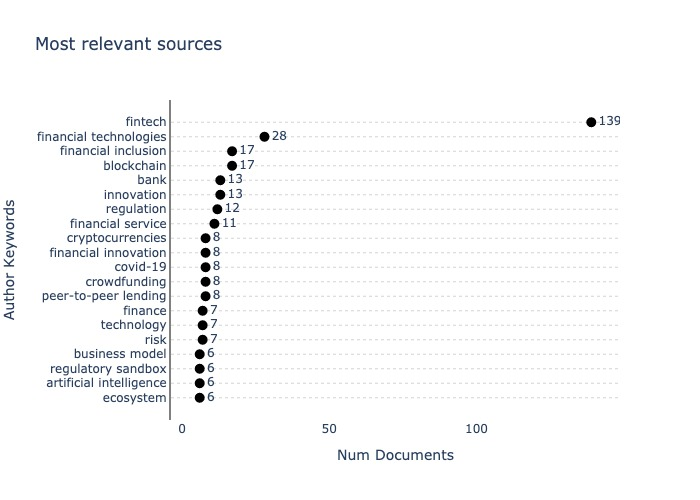
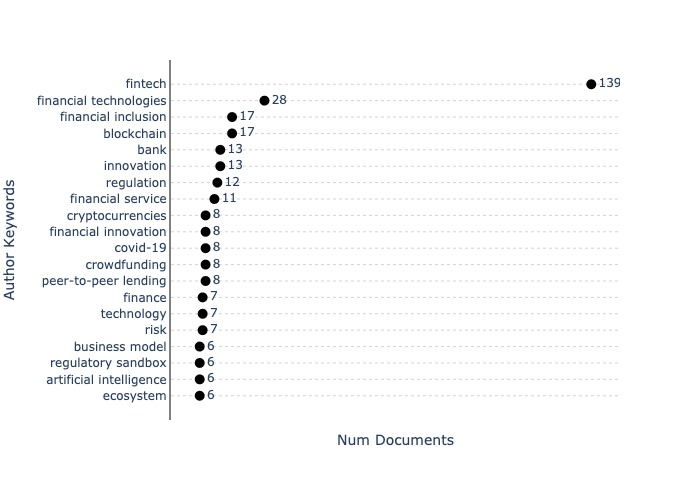
update

diff --git a/techminer2/gantt_chart.py b/techminer2/gantt_chart.py
@@ -1,5 +1,5 @@
 """
-Gantt Chart
+Gantt Chart (*)
 ===============================================================================
 
 >>> from techminer2 import *
@@ -9,71 +9,115 @@ Gantt Chart
 ...     column='author_keywords',
 ...     top_n=20, 
 ...     directory=directory,
-... ).savefig(file_name)
+... ).write_image(file_name)
 
 .. image:: images/gantt_chart.png
     :width: 700px
     :align: center
 
->>> gantt_chart(
-...     column='author_keywords',
-...     top_n=20, 
-...     directory=directory,
-...     plot=False,
-... ).head()
-pub_year                2016  2017  2018  2019  2020  2021
-author_keywords                                           
-fintech                    4     6    16    16    38    59
-financial technologies     1     0     6     4     5    12
-financial inclusion        0     2     0     2     3    10
-blockchain                 0     2     3     4     2     6
-innovation                 2     1     3     3     3     1
-
 
 """
+import plotly.express as px
+from pyparsing import col
 
-
-from ._gantt_chart import _gantt_chart
-from .annual_occurrence_matrix import annual_occurrence_matrix
-from .topic_view import topic_view
+from ._read_records import read_filtered_records
 
 
 def gantt_chart(
-    column,
-    metric="num_documents",
-    top_n=None,
-    min_occ=1,
-    max_occ=None,
-    sort_values=None,
-    sort_index=None,
+    column="author_keywords",
     directory="./",
-    #
-    color="tab:blue",
-    figsize=(6, 6),
-    plot=True,
+    top_n=10,
 ):
-    indicators = topic_view(
-        column=column,
-        metric=metric,
-        top_n=top_n,
-        min_occ=min_occ,
-        max_occ=max_occ,
-        sort_values=sort_values,
-        sort_index=sort_index,
-        directory=directory,
+
+    records = read_filtered_records(directory)
+    records = records[["pub_year", column]]
+    records = records.dropna(subset=[column])
+    records[column] = records[column].str.split(";")
+    records = records.explode(column)
+    records[column] = records[column].str.strip()
+    records = records.groupby(column).agg({"pub_year": [min, max]})
+    records.columns = records.columns.droplevel()
+    records = records.rename(columns={"min": "start", "max": "finish"})
+    records["data"] = records.index
+
+    records["start"] = records["start"].astype(str) + "-01-01"
+    records["finish"] = records["finish"].astype(str) + "-12-31"
+
+    index = read_filtered_records(directory)
+    index = index[column]
+    index = index.dropna()
+    index = index.str.split(";")
+    index = index.explode()
+    index = index.str.strip()
+    index = index.value_counts()
+    index = index.sort_values(ascending=False)
+    index = index.head(top_n)
+
+    records = records.loc[index.index, :]
+
+    # print(records)
+
+    fig = px.timeline(
+        records,
+        x_start="start",
+        x_end="finish",
+        y="data",
+    )
+    fig.update_yaxes(autorange="reversed")
+    fig.update_layout(paper_bgcolor="white", plot_bgcolor="white")
+    fig.update_traces(marker_color="lightgray")
+    fig.update_xaxes(
+        linecolor="gray",
+        linewidth=2,
+        gridcolor="lightgray",
+        griddash="dot",
     )
 
-    topics = indicators.index
-
-    production = annual_occurrence_matrix(
-        column=column,
-        min_occ=1,
-        directory=directory,
+    fig.update_yaxes(
+        linecolor="gray",
+        linewidth=2,
     )
+    fig.update_xaxes(tickangle=270)
 
-    production = production.loc[topics]
+    return fig
 
-    if plot is False:
-        return production
 
-    return _gantt_chart(production, figsize=figsize, color=color)
+# def ____gantt_chart(
+#     column,
+#     metric="num_documents",
+#     top_n=None,
+#     min_occ=1,
+#     max_occ=None,
+#     sort_values=None,
+#     sort_index=None,
+#     directory="./",
+#     #
+#     color="tab:blue",
+#     figsize=(6, 6),
+#     plot=True,
+# ):
+#     indicators = topic_view(
+#         column=column,
+#         metric=metric,
+#         top_n=top_n,
+#         min_occ=min_occ,
+#         max_occ=max_occ,
+#         sort_values=sort_values,
+#         sort_index=sort_index,
+#         directory=directory,
+#     )
+
+#     topics = indicators.index
+
+#     production = annual_occurrence_matrix(
+#         column=column,
+#         min_occ=1,
+#         directory=directory,
+#     )
+
+#     production = production.loc[topics]
+
+#     if plot is False:
+#         return production
+
+#     return _gantt_chart(production, figsize=figsize, color=color)

diff --git a/techminer2/cleveland_chart.py b/techminer2/cleveland_chart.py
@@ -63,5 +63,6 @@ def cleveland_chart(
         autorange="reversed",
         griddash="dot",
     )
+    fig.update_xaxes(showticklabels=False)
 
     return fig

diff --git a/techminer2/column_chart.py b/techminer2/column_chart.py
@@ -64,5 +64,6 @@ def column_chart(
         autorange="reversed",
         griddash="dot",
     )
+    fig.update_xaxes(showticklabels=False)
 
     return fig
